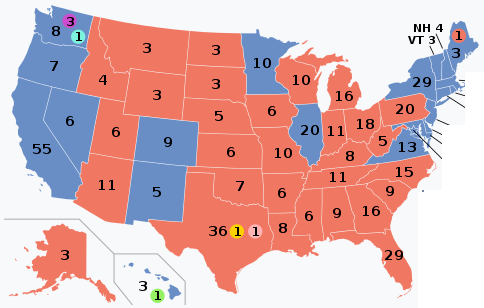
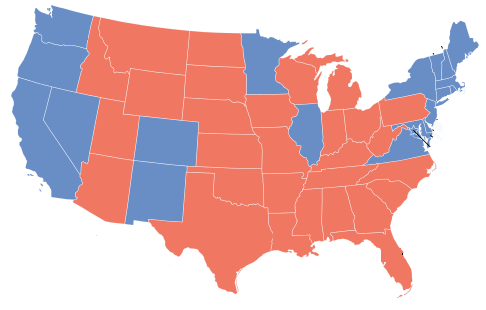
This will be my last version of the project. Future enhancements could be to have better algo to find the contour (than the inflating rectangle)

diff --git a/web/js/events.js b/web/js/events.js
@@ -1,3 +1,7 @@
+///////////////////////////////////////////////////////////////////////////////////////////////////////////
+// This files contains
+///////////////////////////////////////////////////////////////////////////////////////////////////////////
+
 
 import { getPixelColor }  from './pixelFunctions.js';   
 import { alterimage , findContour, stretchBox}  from './colorProcessing.js'
@@ -65,26 +69,7 @@ const moveMouseHandler = (e) => {
 
     console.log("Timer handlers v2: [" + params.x + "," + params.y + "]");
 
-
-    let colorBoxes = [];
     let boxParams = {...params};
-
-
-    // for (let i=0;i<15;i++) {
-
-    //     const xPos = Math.round( Math.random() *  params.canvas.width );
-    //     const yPos = Math.round( Math.random() *  params.canvas.height );
-
-    //     boxParams.x = xPos;
-    //     boxParams.y = yPos;
-
-
-    //     const boxPos = stretchBox(  boxParams.ctx,
-    //                                 boxParams.canvas,
-    //                                 boxParams.imageData,
-    //                                 boxParams.x ,boxParams.y );
-    //     colorBoxes.push(boxPos);
-    // }
 
     const boxPos = stretchBox(  boxParams.ctx,
                                 boxParams.canvas,
@@ -113,7 +98,7 @@ export const registerHandlers = () => {
     findcontourButton.addEventListener('click', findCountourButtonClickHandler );
     
     const img = new Image()
-    img.src = "./usa2.png";
+    img.src = "./usa.png";
     
     img.onload = () => {
         

diff --git a/web/style.css b/web/style.css
@@ -2,16 +2,24 @@ body {
     background-color: #2A6EB9;    
 }
 
-h1 {
+
+#title-usa {
+    margin: auto;
     color: #AD2032;
     text-align: center;
     text-shadow: 3px 3px 4px black;
+
+    font-family:Arial, Helvetica, sans-serif;
+    font-size: 30px;
+    font-weight: bold;
+
 }
 
 .wrapper {
     width: 800px;
     margin: auto;
     background-color: rgb(202, 196, 196);
+    text-align: center;
 }
 
  #map-image-section {
@@ -25,11 +33,58 @@ h1 {
     border-style: solid;
 } 
 
+
+#main-image-section {
+
+    display: grid;
+    grid-template-rows: auto auto auto auto 30px;
+    grid-template-columns: 120px 70px auto;
+    gap: 10px;
+    background-color: #2196F3;
+    /* padding: 10px; */
+  
+    /* display: flex; */
+    align-items: center;
+    margin: auto;
+    text-align: center;
+    border: #2A6EB9;
+    border-width : 2px;
+    border-style: solid;
+} 
+
+
 #color-sample-view {
+    grid-column-start: 1;
+    grid-row-start: 2;
+    grid-row-end: 3;
+
     margin: 10px;
     width: 100px;
     height: 100px;
-    background-color: green;
+    background-color: rgb(202, 196, 196);
+    border: 1px solid black;
+}
+
+#coords {
+    grid-column-start: 2;
+    grid-row-start: 2;
+    grid-row-end: 3;
+
+
+    color: white;;
+}
+
+#my-canvas {
+    grid-column-start: 3;
+    grid-row-start: 1;
+    grid-row-end: 4;
+
+}
+#click-on-map {
+    grid-column-start: 3;
+    grid-row-start: 4;
+    grid-row-end: 5;
+    color: white;
 }
 
 #buttons-section {

diff --git a/web/js/colorProcessing.js b/web/js/colorProcessing.js
@@ -6,13 +6,11 @@ const RED    =      255;
 const GREEN  =    65280;
 const BLUE   = 16711680;
 
- import { codeToRGB,rgbToHex,
-          XYtoIndex,
-          isDark } from './conversion.js';
+ import { codeToRGB,rgbToHex, isDark } from './conversion.js';
 
-import {setPixelColor, 
-        getPixelCode,getPixelColor,
-        drawLine }  from './pixelFunctions.js';
+// import {setPixelColor, 
+//         getPixelCode,getPixelColor,
+//         drawLine }  from './pixelFunctions.js';
 
 import { ColorBox , ColorRectangle } from './ColorBox.js';
 
@@ -198,7 +196,6 @@ export const findContour = (imageData) => {
 
 export const stretchBox = (ctx,canvas,imageData,x,y) => {
 
-    // let colorBox = new ColorBox(canvas,imageData,x,y);
     let rectangleBox = new ColorRectangle(canvas,imageData,x,y);
 
 
@@ -215,9 +212,6 @@ export const stretchBox = (ctx,canvas,imageData,x,y) => {
 
 
     
-
-    
-
     return rectangleBox.getBox();
 
 }

diff --git a/web/index.html b/web/index.html
@@ -12,15 +12,16 @@
 </head>
 <body>
     <div class="wrapper">
-        <h1>USA</h1>
-        <div id="map-image-section">
-            <div id="color-sample-view">Color</div>
+        <span  id="title-usa">USA</span>
+
+        <div id="main-image-section">
+        <!-- <div id="map-image-section"> -->
+            <div id="color-sample-view">Color Clicked</div>
             <p id="coords">coords</p>
-            <canvas id="my-canvas" width="500px" height="350px" />
-            
-           
-            
+            <canvas id="my-canvas" width="500px" height="310px" ></canvas>
+            <div id="click-on-map">Click on the map to display an inflate box...</div>
         </div>
+       
 
         <div id="buttons-section">
              <button id="colorChangebutton" >Recolor</button>

diff --git a/readme.md b/readme.md
@@ -5,14 +5,14 @@
 
 ***************************************************************************************************************************
 
-May 23
-======
+May 23, 2023
+============
 
   Removed the Web Worker from the project, and replaced with a simple Javascript interval handler.
   Did split the pixel oriented functions from the colorProcessing.js
 
-May 22
-======
+May 22, 2023
+============
 Fixed some rendering problem as the imageData and imageData.data were not used correctly (which made the  context.putImageData failing and not rendering)
 Also, the web worker is now instanciated as module, which makes possible to use imports...
 
@@ -20,8 +20,8 @@ To DO:
   Ready now to retry a thread (Web Worker) that is using a ColorBox (and not a ColorBox that is using internally a thread)
   Make sure to respect this Thread-Using-Colorbox design!
 
-May 19
-======
+May 19, 2023
+============
 
   The import does not work in this worker.js file, not sure why...
   Maybe is is because it is accessed or given as param to a Web Worker?
@@ -30,8 +30,9 @@ May 19
      Investigate why import is not working in worker.js
 
 
-May 18
-======
+May 18, 2023
+============
+
   Tryied to create a class to delegate the processing of the Inflate box (ColorBox.js), using HTML/JS Web worker.
   But it appears that the update on the rendering is not done anymore (needs a call to a context.putImageData(...)),
   and the context is lost or something of that sort...
@@ -39,8 +40,9 @@ May 18
   Will go back, and try to use the  main thread to process the inflate box, very bad design, but just to see if it works, so I can later try again with the Web Worker thread...
 
 
-May 17
-======
+May 17, 2023
+============
+
    Simple page created, and an image of the US election of 2016 is loaded and displayed.
    A button been added, that calls a method who can identify the color in the bitmap.
 
